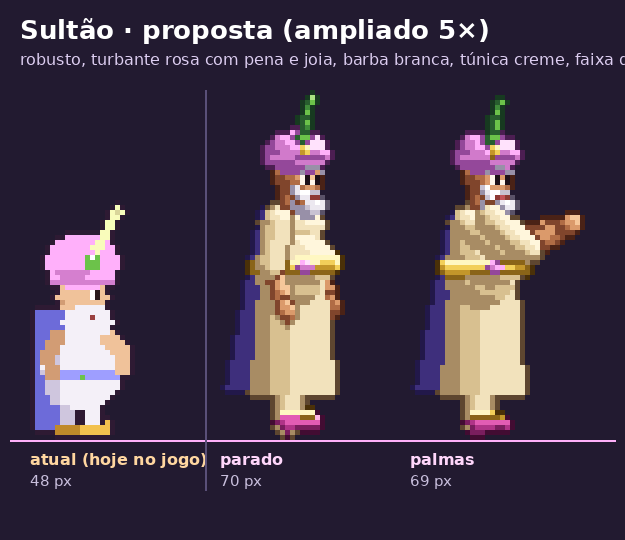
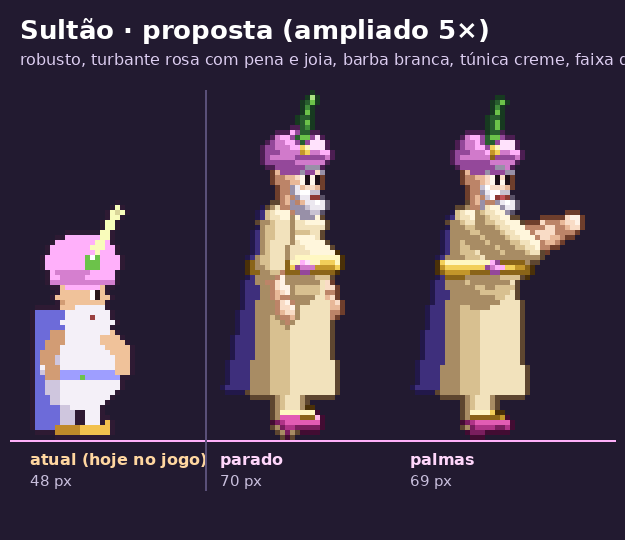
Prévia do elenco: pele branca para Tia Paula, Tia Claudia e Sultão
Nova rampa de pele clara no gerador da proposta; informação do Pedro registrada
no CLAUDE.md (seção 8), nas notas de references/pessoas/ e na PROPOSTA.md.

Claude-Session: https://claude.ai/code/session_01PQYRHCjcJDFveiPkYtVM8o

diff --git a/ferramentas/arte/elenco_proposta.py b/ferramentas/arte/elenco_proposta.py
@@ -50,6 +50,7 @@ class Paleta:
 
 # rampas (brilho, base, sombra, funda, contorno)
 R = {
+    'pele_branca': ['#FFF2E6', '#F9DCC6', '#E8B898', '#BC8468', '#6E3E2C'],
     'pele_clara': ['#FCE0C4', '#EDB892', '#C98962', '#97583D', '#55291C'],
     'pele_morena': ['#F6C79A', '#DB9A6B', '#B06C45', '#80452C', '#4A2216'],
     'pele_lilas': ['#E8DCFF', '#C2B0F2', '#9886D6', '#6C5CAE', '#3A2E6E'],
@@ -336,7 +337,7 @@ class TiaPaula(Humano):
 
     def mat(self):
         P = self.pal
-        self.PELE = P('pele', R['pele_clara'], (0.78, 0.42, 0.10))
+        self.PELE = P('pele', R['pele_branca'], (0.78, 0.42, 0.10))   # pele branca (Pedro, 01/11/2026)
         self.CABELO = P('cabelo', R['loiro'], (0.78, 0.46, 0.18))
         self.ROUPA = P('camiseta', R['camiseta_preta'], (0.74, 0.40, 0.12))
         self.CALCA = P('jeans', R['jeans'])
@@ -394,7 +395,7 @@ class TiaClaudia(Humano):
 
     def mat(self):
         P = self.pal
-        self.PELE = P('pele', R['pele_morena'], (0.78, 0.42, 0.10))
+        self.PELE = P('pele', R['pele_branca'], (0.78, 0.42, 0.10))   # pele branca (Pedro, 01/11/2026)
         self.CABELO = P('cabelo', R['preto_cab'], (0.82, 0.52, 0.22))
         self.ROUPA = P('camiseta', R['rosa'], (0.86, 0.50, 0.16))
         self.CALCA = P('calca', ['#8A86A8', '#5C5880', '#424062', '#2E2C48', '#18162A'])
@@ -525,7 +526,7 @@ class Sultao(Humano):
 
     def mat(self):
         P = self.pal
-        self.PELE = P('pele', R['pele_morena'], (0.78, 0.42, 0.10))
+        self.PELE = P('pele', R['pele_branca'], (0.78, 0.42, 0.10))   # pele branca (Pedro, 01/11/2026)
         self.ROUPA = P('tunica', R['creme'])
         self.CALCA = P('calca', R['creme'])
         self.CAPA = P('capa', R['roxo'])

diff --git a/CLAUDE.md b/CLAUDE.md
@@ -211,8 +211,8 @@ das duas justifica entregar arte genérica.
 Todos com design próprio. O elenco se baseia nos figurinos do espetáculo (`references/figurinos/`): desenhar a versão da escola, com a qualidade medida em `references/estilo/`. Não reproduzir o design de personagens de filme, animação ou jogo (regra 3); estudar a linguagem visual deles é permitido. Não retratar o rosto de alunos; usar só os figurinos como referência. Enquanto não houver fotos, cada personagem tem um design próprio provisório, com qualidade completa e marcado no índice (seção 7.1).
 
 - **Aladdin** (jogador): herói ágil, com o figurino do espetáculo.
-- **Tia Claudia** (staff do Espaço): usa óculos e tem cabelo preto. Entrega os ingressos.
-- **Tia Paula De Marco** (diretora da escola): é resgatada e abre o espetáculo. **Loira, de rabo de cavalo, com camiseta preta** (a camiseta preta do espetáculo, com "Aladdin" dourado, fumaça azul e roxa e a lâmpada: `references/pessoas/tia-paula-camiseta-aladdin.jpg`). Informação do Pedro, 01/11/2026. O resto (rosto, calça, sapatos): neutro e provisório até a foto.
+- **Tia Claudia** (staff do Espaço): usa óculos, tem cabelo preto e pele branca (informação do Pedro, 01/11/2026). Entrega os ingressos.
+- **Tia Paula De Marco** (diretora da escola): é resgatada e abre o espetáculo. **Loira, de pele branca, de rabo de cavalo, com camiseta preta** (a camiseta preta do espetáculo, com "Aladdin" dourado, fumaça azul e roxa e a lâmpada: `references/pessoas/tia-paula-camiseta-aladdin.jpg`). Informação do Pedro, 01/11/2026. O resto (rosto, calça, sapatos): neutro e provisório até a foto.
 - **Jasmine, Gênio, Abu e demais personagens do espetáculo**: aparecem rapidamente no Espaço, com uma fala cada.
 - **Jafar** (vilão e chefe): com o figurino do espetáculo.
 - **Capivaras** (inimigos de Itajubá): fofas e trapalhonas, nunca assustadoras.

diff --git a/references/pessoas/reference-notes.md b/references/pessoas/reference-notes.md
@@ -3,8 +3,8 @@
 **Objetivo:** Tia Paula De Marco (diretora) e Tia Claudia (staff). Só com o OK delas; anotar aqui a data do OK.
 
 **Situação (01/11/2026):** sem fotos.
-- Tia Claudia: o CLAUDE.md diz só "usa óculos e tem cabelo preto".
-- Tia Paula (informação do Pedro, 01/11/2026): **loira, rabo de cavalo, camiseta preta** (de preferência a camiseta
+- Tia Claudia: usa óculos, tem cabelo preto e **pele branca** (Pedro, 01/11/2026).
+- Tia Paula (informação do Pedro, 01/11/2026): **loira, pele branca, rabo de cavalo, camiseta preta** (de preferência a camiseta
   preta do Aladdin; o print vai chegar aqui). O resto da aparência, A DEFINIR.
   As versões antigas (coque castanho, vestido roxo) estão erradas. Em 01/11 o cabelo delas já foi pintado de loiro;
   o redesenho completo (rabo de cavalo + camiseta preta, um sprite só) é da Etapa 8A.

diff --git a/ferramentas/arte/previas/personagens/PROPOSTA.md b/ferramentas/arte/previas/personagens/PROPOSTA.md
@@ -74,3 +74,5 @@ Mudanças de design em relação ao jogo de hoje (todas provisórias até as fot
 - Jafar e Sultão: mesmo design, agora no tamanho e no acabamento certos.
 
 Se aprovar, a 8A troca os sprites no jogo com as animações completas da tabela acima.
+
+**Pele (informação do Pedro, 01/11/2026):** Tia Paula, Tia Claudia e o Sultão têm **pele branca**.
